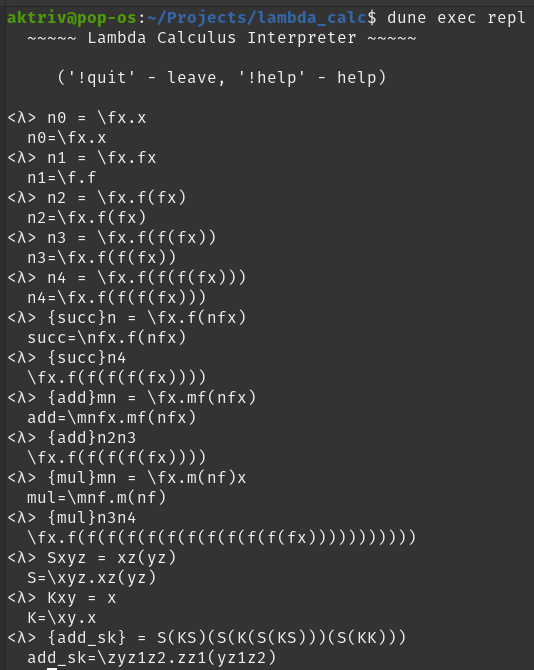
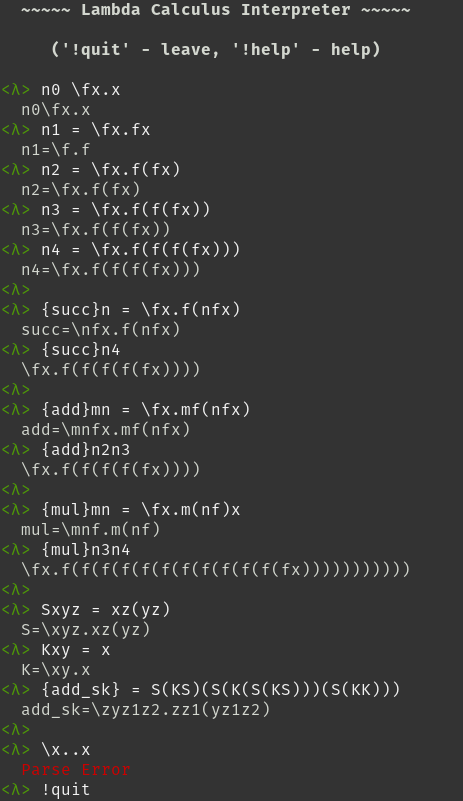
Add color

diff --git a/README.md b/README.md
@@ -15,7 +15,9 @@ This screenshot above demonstrates:
  * the successor, add, and multiply operations, written in functional style,
  * the S and K combinators,
  * the add function expressed with S and K combinators, demonstrating
-   alpha-conversion to resolve conflicting bound identifiers.
+   alpha-conversion to resolve conflicting bound identifiers,
+ * expressions that are not well-formed, which yield a parse exception.
 
 This program does not handle certain expressions, such as expressions that can
-be beta-reduced infinite times like `(\x.xx)\x.xx` and `\f.(\x.f(xx))\x.f(xx)`.
+be beta-reduced infinitely many times, like `(\x.xx)\x.xx` and
+`\f.(\x.f(xx))\x.f(xx)`.
